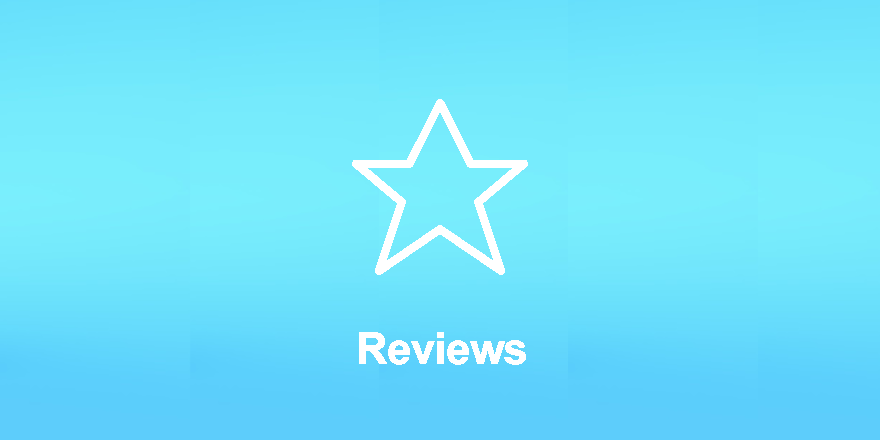
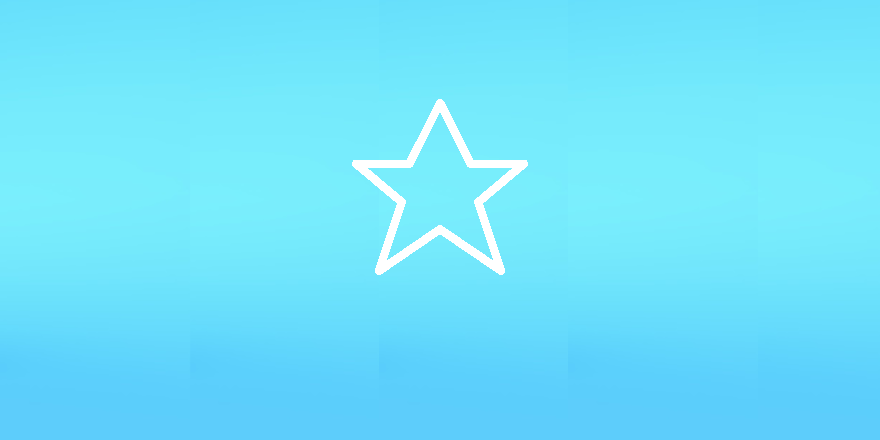
home page image change

Changed region(s): [[0.3989, 0.7386, 0.6136, 0.8273]]

diff --git a/src/components/HomeCompo.jsx b/src/components/HomeCompo.jsx
@@ -2,6 +2,10 @@ import React from 'react'
 import Card from 'react-bootstrap/Card';
 import '../homeCompon.css'
 import { Link } from 'react-router-dom';
+import Reviews from '../images/reviews.png';
+import Shop from '../images/shop.png';
+import MyProducts from '../images/myproducts.png';
+import MyCard from '../images/purchases.png';
 
 function HomeCompo() {
   return (
@@ -9,7 +13,7 @@ function HomeCompo() {
     <div>
     <Link to="/products">
         <Card className="bg-white text-black">
-      <Card.Img src="https://productmanagementfestival.com/wp-content/uploads/2017/01/sell-your-product-online.jpg" alt="Card image" />
+      <Card.Img src={Shop} alt="Card image" />
       <Card.ImgOverlay className="imgHover">
         <Card.Title className="title">Shop</Card.Title>
         
@@ -20,7 +24,7 @@ function HomeCompo() {
     <div>
     <Link to="/myProducts">
     <Card className="bg-white text-black">
-      <Card.Img  src="https://media.istockphoto.com/id/1388175035/photo/hand-truck-with-cardboard-boxes-on-blue-background-moving-house-concept-relocation-cargo.jpg?b=1&s=170667a&w=0&k=20&c=sBuqMuHKDtuF749Azh-Zo6XN1K7mt2ssitGoCoxJu10=" alt="Card image" />
+      <Card.Img  src={MyProducts} alt="Card image" />
       <Card.ImgOverlay className="imgHover">
         <Card.Title className="title">My products</Card.Title>
         
@@ -31,7 +35,7 @@ function HomeCompo() {
     <div>
     <Link to="/shoppingCart">
     <Card className="bg-white text-black">
-      <Card.Img src="https://gamipress.com/wp-content/uploads/2018/12/purchases.svg" alt="Card image" />
+      <Card.Img src={MyCard} alt="Card image" />
       <Card.ImgOverlay className="imgHover">
         <Card.Title className="title">Shopping Cart</Card.Title>
         
@@ -41,8 +45,8 @@ function HomeCompo() {
     </div>
     <div>
     <Link to="/reviews">
-    <Card className="bg-white text-white">
-      <Card.Img src="https://easydigitaldownloads.com/wp-content/uploads/edd/2016/04/product-reviews-featured-image.png" alt="Card image" />
+    <Card className="bg-white text-black">
+      <Card.Img src={Reviews} alt="Card image" />
       <Card.ImgOverlay className="imgHover">
         <Card.Title className="title">Reviews</Card.Title>
         
